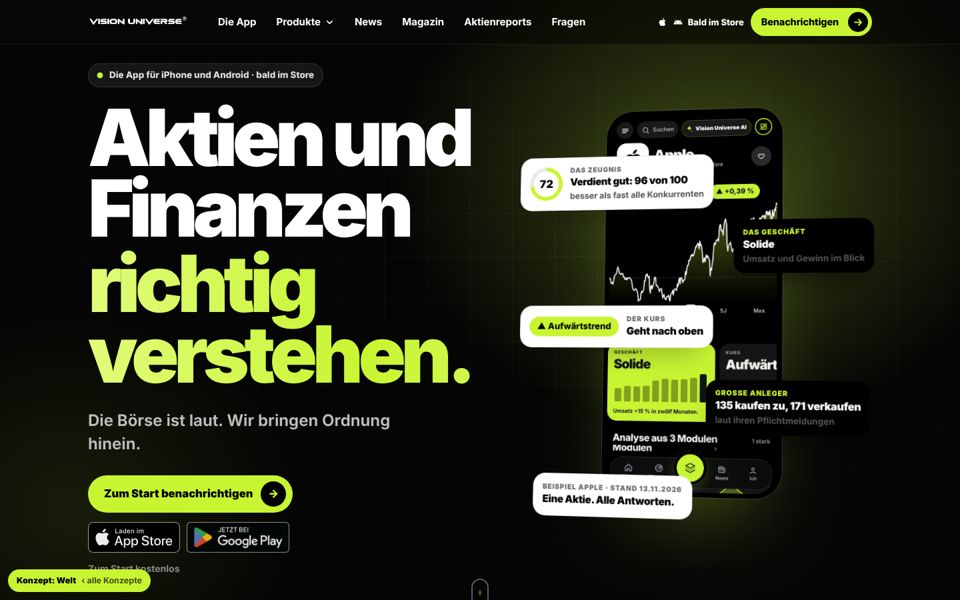
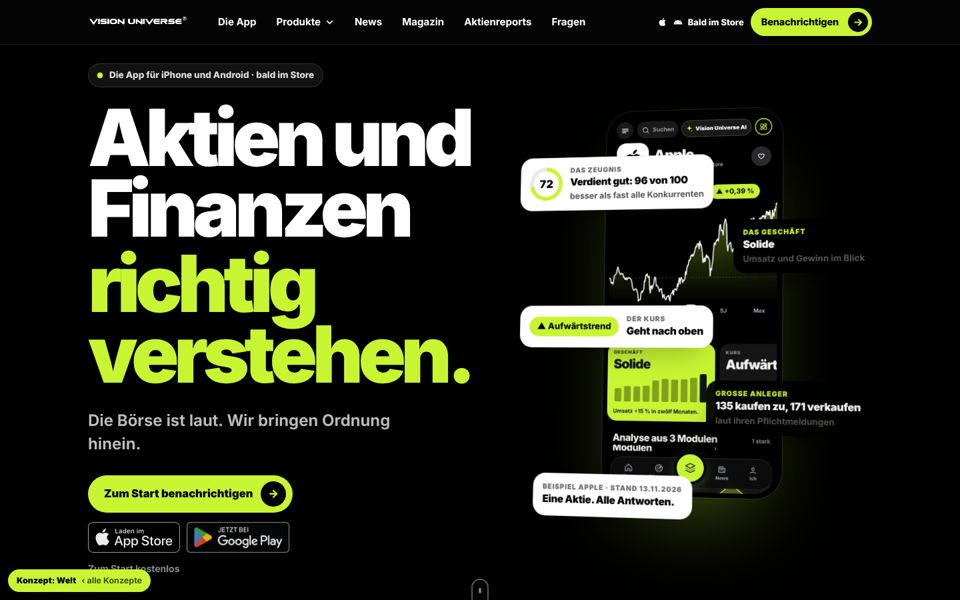
www (nur Vorschau): Welt – Start ruhig schwarz, ohne Scroll-Erzählung, Kacheln mit ganzem iPhone
Grünes Leuchten, Raster, Glanz und Laufband entfernt; Scroll-Erzählung
entfernt; Kacheln in festem Raster mit geradem, vollständigem iPhone.

Claude-Session: https://claude.ai/code/session_01DVwZC7n9f15dtz6Bddomj7

diff --git a/landing/konzepte/t/welt.html b/landing/konzepte/t/welt.html
@@ -1,8 +1,7 @@
 <!-- Konzept „Welt“ (Owner 21.11.2026): Marketing-Seite statt Web-App. Inhalt der <main> vor der Anmeldung.
      Platzhalter füllt scripts/build.mjs: HEROSTAGE (iPhone der Live-Seite), TV (News aus insights/artikel.json). -->
 <section class="vw-hero" data-dark>
-  <div class="vw-glow" aria-hidden="true"></div><div class="vw-grid" aria-hidden="true"></div>
-  <div class="vw-hin w">
+    <div class="vw-hin w">
     <div class="vw-copy">
       <p class="vw-eyebrow"><span class="vw-live" aria-hidden="true"></span>Die App für iPhone und Android · bald im Store</p>
       <h1 class="vw-h1"><span class="vw-l">Aktien und Finanzen</span> <span class="vw-l"><em>richtig verstehen.</em></span></h1>
@@ -15,40 +14,23 @@
     </div>
     <div class="vw-stage" data-tilt><!--HEROSTAGE--></div>
   </div>
-  <a class="vw-down" href="#vw-story" aria-label="Weiter"><span></span></a>
+  <a class="vw-down" href="#vw-app" aria-label="Weiter"><span></span></a>
 </section>
 
-<div class="vw-marquee" aria-hidden="true"><div><span>Verdient die Firma Geld?</span><span>Wohin läuft der Kurs?</span><span>Was machen die großen Anleger?</span><span>Wie handeln die besten Trader der Welt?</span><span>Was wird aus meiner Rente?</span><span>Wie gut ist die Aktie im Vergleich?</span><span>Was bewegt die Börse heute?</span><span>Verdient die Firma Geld?</span><span>Wohin läuft der Kurs?</span><span>Was machen die großen Anleger?</span><span>Wie handeln die besten Trader der Welt?</span><span>Was wird aus meiner Rente?</span><span>Wie gut ist die Aktie im Vergleich?</span><span>Was bewegt die Börse heute?</span></div></div>
 
-<section class="vw-story" id="vw-story" aria-label="Eine Aktie, alle Antworten">
-  <div class="vw-sticky">
-    <div class="vw-sbg" aria-hidden="true"></div>
-    <div class="vw-beats w">
-      <article class="vw-beat" data-img="./web/img/app/apple.jpg"><p class="vw-k">Eine Aktie</p><h2>Alle Antworten. <em>Auf einer Seite.</em></h2><p>Zu jeder Aktie die Antwort in einfachen Sätzen.</p></article>
-      <article class="vw-beat" data-img="./web/img/app/fundamental.jpg"><p class="vw-k">Fundamental</p><h2>Verdient die Firma <em>Geld?</em></h2><p>Macht sie Gewinn? Wächst der Umsatz? Hat sie viele Schulden? Aus den offiziellen Geschäftsberichten, jede Zahl in einem Satz.</p></article>
-      <article class="vw-beat" data-img="./web/img/app/technical.jpg"><p class="vw-k">Technical</p><h2>Wohin läuft <em>der Kurs?</em></h2><p>Steigt die Aktie oder fällt sie? Trends und Muster, gesagt in einem Satz.</p></article>
-      <article class="vw-beat" data-img="./web/img/app/hedgefonds.jpg"><p class="vw-k">Hedgefonds</p><h2>Was machen die <em>großen Anleger?</em></h2><p>Wer zukauft, wer verkauft und wer eine Aktie hält, aus den Pflichtmeldungen der großen Fonds.</p></article>
-      <article class="vw-beat" data-img="./web/img/app/quant.jpg"><p class="vw-k">Quant</p><h2>Jede Aktie bekommt <em>ein Zeugnis.</em></h2><p>Sechs Noten von 0 bis 100, verglichen mit ähnlichen Firmen.</p></article>
-      <article class="vw-beat" data-img="./web/img/app/discover.jpg"><p class="vw-k">Discover</p><h2>Das Netflix der <em>Aktienwelt.</em></h2><p>Wisch dich durch die Börse wie durch Instagram: nach rechts merken, nach links weiter.</p></article>
-      <article class="vw-beat" data-img="./web/img/app/ai.jpg"><p class="vw-k">Vision Universe AI</p><h2>Frag einfach in <em>deinen Worten.</em></h2><p>So, wie du einen Freund fragen würdest. Mit Quelle zu jeder Zahl.</p></article>
-    </div>
-    <div class="vw-sphone" aria-hidden="true"></div>
-    <div class="vw-sprog" aria-hidden="true"></div>
-  </div>
-</section>
 
-<section class="vw-bento w" aria-labelledby="vw-bento-h">
+<section class="vw-bento w" id="vw-app" aria-labelledby="vw-bento-h">
   <p class="vw-k">Die App</p>
   <h2 class="vw-h2" id="vw-bento-h">Alles für deine Aktien. <em>In einer App.</em></h2>
   <div class="vw-tiles">
     <a class="vw-tile t-xl" href="./produkte/discover/"><span class="vw-ti"><svg><use href="#discover"/></svg></span><b>Discover</b><small>Die Börse entdecken, Aktie für Aktie</small><span class="vw-shot"><img src="./web/img/app/discover.jpg" alt="" loading="lazy"></span></a>
-    <a class="vw-tile t-w dark" href="./produkte/atlas/"><span class="vw-ti"><svg><use href="#atlas"/></svg></span><b>Vision Universe AI</b><small>Frag in deinen Worten</small><span class="vw-shot"><img src="./web/img/app/ai.jpg" alt="" loading="lazy"></span></a>
+    <a class="vw-tile dark" href="./produkte/atlas/"><span class="vw-ti"><svg><use href="#atlas"/></svg></span><b>Vision Universe AI</b><small>Frag in deinen Worten</small><span class="vw-shot"><img src="./web/img/app/ai.jpg" alt="" loading="lazy"></span></a>
     <a class="vw-tile" href="./produkte/fundamental/"><span class="vw-ti"><svg><use href="#fundamental"/></svg></span><b>Fundamental</b><small>Verdient die Firma Geld?</small><span class="vw-shot"><img src="./web/img/app/fundamental.jpg" alt="" loading="lazy"></span></a>
     <a class="vw-tile lime" href="./produkte/technical/"><span class="vw-ti"><svg><use href="#technical"/></svg></span><b>Technical</b><small>Wohin läuft der Kurs?</small><span class="vw-shot"><img src="./web/img/app/technical.jpg" alt="" loading="lazy"></span></a>
-    <a class="vw-tile t-t dark" href="./produkte/quant/"><span class="vw-ti"><svg><use href="#quant"/></svg></span><b>Quant</b><small>Das Zeugnis jeder Aktie</small><span class="vw-shot"><img src="./web/img/app/quant.jpg" alt="" loading="lazy"></span></a>
+    <a class="vw-tile dark" href="./produkte/quant/"><span class="vw-ti"><svg><use href="#quant"/></svg></span><b>Quant</b><small>Das Zeugnis jeder Aktie</small><span class="vw-shot"><img src="./web/img/app/quant.jpg" alt="" loading="lazy"></span></a>
     <a class="vw-tile" href="./produkte/supertrader/"><span class="vw-ti"><svg><use href="#supertrader"/></svg></span><b>Supertrader</b><small>Die Regeln der besten Trader</small><span class="vw-shot"><img src="./web/img/app/supertrader.jpg" alt="" loading="lazy"></span></a>
     <a class="vw-tile" href="./produkte/hedgefonds/"><span class="vw-ti"><svg><use href="#hedgefonds"/></svg></span><b>Hedgefonds</b><small>Was große Anleger machen</small><span class="vw-shot"><img src="./web/img/app/hedgefonds.jpg" alt="" loading="lazy"></span></a>
-    <a class="vw-tile t-w" href="./produkte/vorsorge/"><span class="vw-ti"><svg><use href="#vorsorge"/></svg></span><b>Vorsorge</b><small>Rente und Altersvorsorgedepot</small><span class="vw-shot"><img src="./web/img/app/vorsorge.jpg" alt="" loading="lazy"></span></a>
+    <a class="vw-tile" href="./produkte/vorsorge/"><span class="vw-ti"><svg><use href="#vorsorge"/></svg></span><b>Vorsorge</b><small>Rente und Altersvorsorgedepot</small><span class="vw-shot"><img src="./web/img/app/vorsorge.jpg" alt="" loading="lazy"></span></a>
     <a class="vw-tile" href="./produkte/screener/"><span class="vw-ti"><svg><use href="#screener"/></svg></span><b>Screener</b><small>Aktien nach deinen Wünschen finden</small><span class="vw-shot"><img src="./web/img/app/screener.jpg" alt="" loading="lazy"></span></a>
     <a class="vw-tile" href="./produkte/elliott/"><span class="vw-ti"><svg><use href="#elliott"/></svg></span><b>Elliott</b><small>Wellen im Kurs, für Fortgeschrittene</small><span class="vw-shot"><img src="./web/img/app/elliott.jpg" alt="" loading="lazy"></span></a>
     <a class="vw-tile" href="./produkte/portfolios/"><span class="vw-ti"><svg><use href="#portfolios"/></svg></span><b>Portfolios</b><small>Musterdepots nach festen Regeln</small><span class="vw-shot"><img src="./web/img/app/portfolios.jpg" alt="" loading="lazy"></span></a>

diff --git a/landing/konzepte/t/welt.css b/landing/konzepte/t/welt.css
@@ -186,3 +186,19 @@ html.vw-ondark .nav .menu{background:transparent;color:#fff;box-shadow:inset 0 0
 @media(min-width:600px) and (max-width:899px){.vw-stage .stage.mob{height:470px}.vw-stage .stage.mob .aphone{--pw:230px}}
 .vw-tiles{grid-auto-flow:dense}
 @media(min-width:700px) and (max-width:1099px){.vw-tile.t-xl{grid-column:span 3;grid-row:span 2}.vw-tile.t-xl .vw-shot{width:34%}}
+/* Runde 2 (Owner 21.11.): Start ruhig schwarz, Kacheln mit ganzem iPhone */
+.vw-hero{background:#000}
+.vw-h1 em{background:none;-webkit-background-clip:initial;background-clip:initial;color:var(--lime);animation:none}
+.vw-tiles{grid-template-columns:1fr;grid-auto-rows:auto;gap:14px}
+@media(min-width:700px){.vw-tiles{grid-template-columns:repeat(2,minmax(0,1fr))}}
+@media(min-width:1100px){.vw-tiles{grid-template-columns:repeat(3,minmax(0,1fr));gap:18px}}
+.vw-tile{display:grid;grid-template-columns:minmax(0,1fr) auto;grid-template-rows:auto auto 1fr;column-gap:18px;row-gap:4px;align-items:start;min-height:0;padding:22px;overflow:hidden}
+.vw-tile .vw-ti{grid-column:1;grid-row:1}
+.vw-tile b{grid-column:1;grid-row:2;margin-top:12px;max-width:none !important}
+.vw-tile small{grid-column:1;grid-row:3;max-width:none !important}
+.vw-shot,.vw-tile.t-xl .vw-shot,.vw-tile:not(.t-xl):not(.t-w):not(.t-t) .vw-shot{position:relative;z-index:1;grid-column:2;grid-row:1/span 3;right:auto;bottom:auto;width:auto;height:240px;aspect-ratio:390/844;border-radius:22px;transform:none;box-shadow:0 0 0 5px #000,0 24px 40px -20px rgba(0,0,0,.5)}
+.vw-tile:hover .vw-shot{transform:translateY(-4px) rotate(-1.5deg)}
+.vw-tile.dark .vw-shot{box-shadow:0 0 0 5px #2a2a2a,0 24px 40px -20px rgba(0,0,0,.8)}
+@media(min-width:700px){.vw-tile.t-xl{grid-column:span 2;grid-row:auto}.vw-tile.t-xl .vw-shot{height:340px}.vw-tile.t-xl{padding:30px}}
+@media(max-width:699px){.vw-tile.t-xl{grid-column:auto}.vw-shot,.vw-tile.t-xl .vw-shot,.vw-tile:not(.t-xl):not(.t-w):not(.t-t) .vw-shot{height:200px}.vw-tile{padding:18px}.vw-tile b{font-size:21px}.vw-tile small{font-size:14.5px}}
+@media(min-width:1100px){.vw-tile{padding:26px}.vw-tile .vw-shot{height:270px !important}.vw-tile.t-xl .vw-shot{height:340px !important}}

diff --git a/landing/konzepte/t/welt.js b/landing/konzepte/t/welt.js
@@ -24,30 +24,6 @@
     });
   }
 
-  /* Scroll-Erzählung: ein iPhone, die Aussagen wechseln */
-  var story = $(".vw-story"), beats = $$(".vw-beat"), sp = $(".vw-sphone"), prog = $(".vw-sprog");
-  var src = $(".vw-stage .aphone");
-  if (story && beats.length && sp && src) {
-    story.style.setProperty("--n", beats.length);
-    var ph = src.cloneNode(true); ph.removeAttribute("id"); sp.appendChild(ph);
-    var img = $(".scr img", ph);
-    beats.forEach(function () { prog.appendChild(document.createElement("i")); });
-    var cur = -1;
-    var show = function (k) {
-      if (k === cur) return; cur = k;
-      beats.forEach(function (b, j) { b.classList.toggle("on", j === k); });
-      $$("i", prog).forEach(function (d, j) { d.classList.toggle("on", j === k); });
-      var s = beats[k].getAttribute("data-img");
-      if (img && s && img.getAttribute("src") !== s) { img.style.opacity = 0; setTimeout(function () { img.src = s; img.style.animation = "none"; void img.offsetWidth; img.style.animation = ""; img.style.opacity = 1; }, reduce ? 0 : 200); }
-    };
-    var onS = function () {
-      var r = story.getBoundingClientRect(), total = story.offsetHeight - innerHeight;
-      var p = Math.min(.999, Math.max(0, -r.top / Math.max(1, total)));
-      show(Math.floor(p * beats.length));
-    };
-    addEventListener("scroll", function () { requestAnimationFrame(onS); }, { passive: true }); addEventListener("resize", onS); onS();
-  }
-
   /* Netflix-Reihen: Pfeile */
   $$(".vw-row").forEach(function (r) {
     var tr = $(".vw-track", r), a = $(".vw-arr", r); if (!tr || !a) return;

diff --git a/landing/konzepte/index.html b/landing/konzepte/index.html
@@ -5,7 +5,7 @@
 <p class="kp-k">Konzepte · 19.11.2026 · nur Vorschau, nicht live</p>
 <h1>Die Seite für <mark>2026.</mark></h1>
 <div class="kp-grid kp-two">
-<a class="kp-card" href="./w/"><span class="kp-shot"><img src="./t/w.jpg" alt=""></span><span class="kp-t"><small>Neu · Marketing-Seite</small><b>Welt</b><em>Eine Seite, die die App verkauft statt sie nachzubauen. Dunkle Startbühne mit dem iPhone, das sich zur Maus neigt. Laufband mit den Fragen. Scroll-Erzählung wie bei Apple: ein iPhone bleibt stehen, sieben Aussagen wechseln. Alle Bereiche als Bento-Kacheln. Die News als Netflix-Oberfläche mit großem Aufmacher und Reihen: Neu, Magazin und Reports, Filme, Nebenwerte, Tagesthemen. Für Handy, iPad und Desktop gebaut.</em></span></a>
+<a class="kp-card" href="./w/"><span class="kp-shot"><img src="./t/w.jpg" alt=""></span><span class="kp-t"><small>Neu · Marketing-Seite</small><b>Welt</b><em>Eine Seite, die die App verkauft statt sie nachzubauen. Ruhige schwarze Startbühne mit dem iPhone, das sich zur Maus neigt. Alle Bereiche als Kacheln mit ganzem iPhone. Die News als Netflix-Oberfläche mit großem Aufmacher und Reihen: Neu, Magazin und Reports, Filme, Nebenwerte, Tagesthemen. Für Handy, iPad und Desktop gebaut.</em></span></a>
 </div>
 <h2 class="kp-h">Vorheriger Entwurf</h2>
 <div class="kp-grid kp-two">
